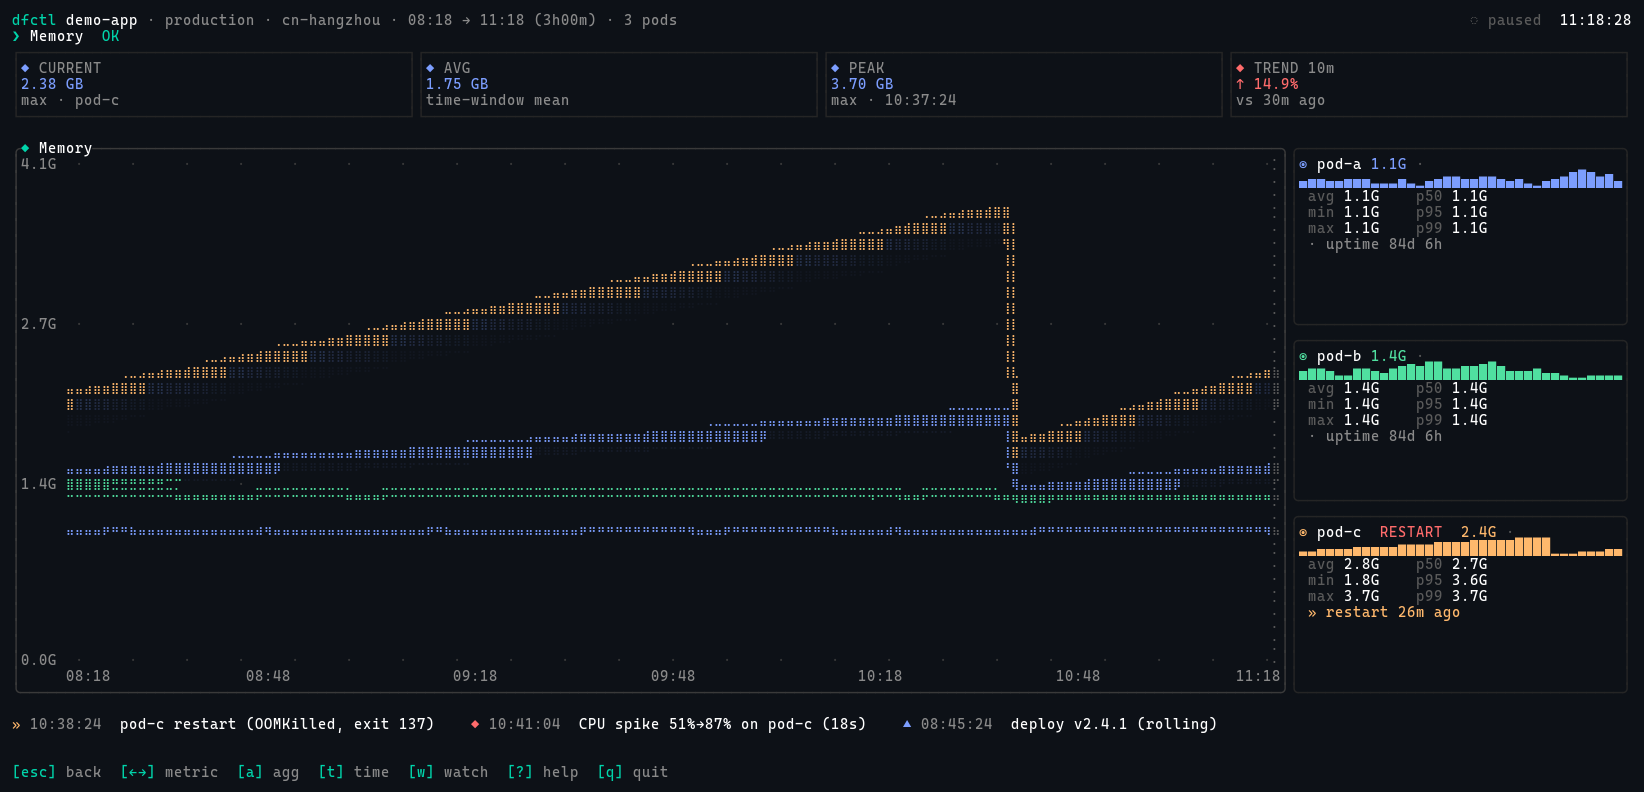
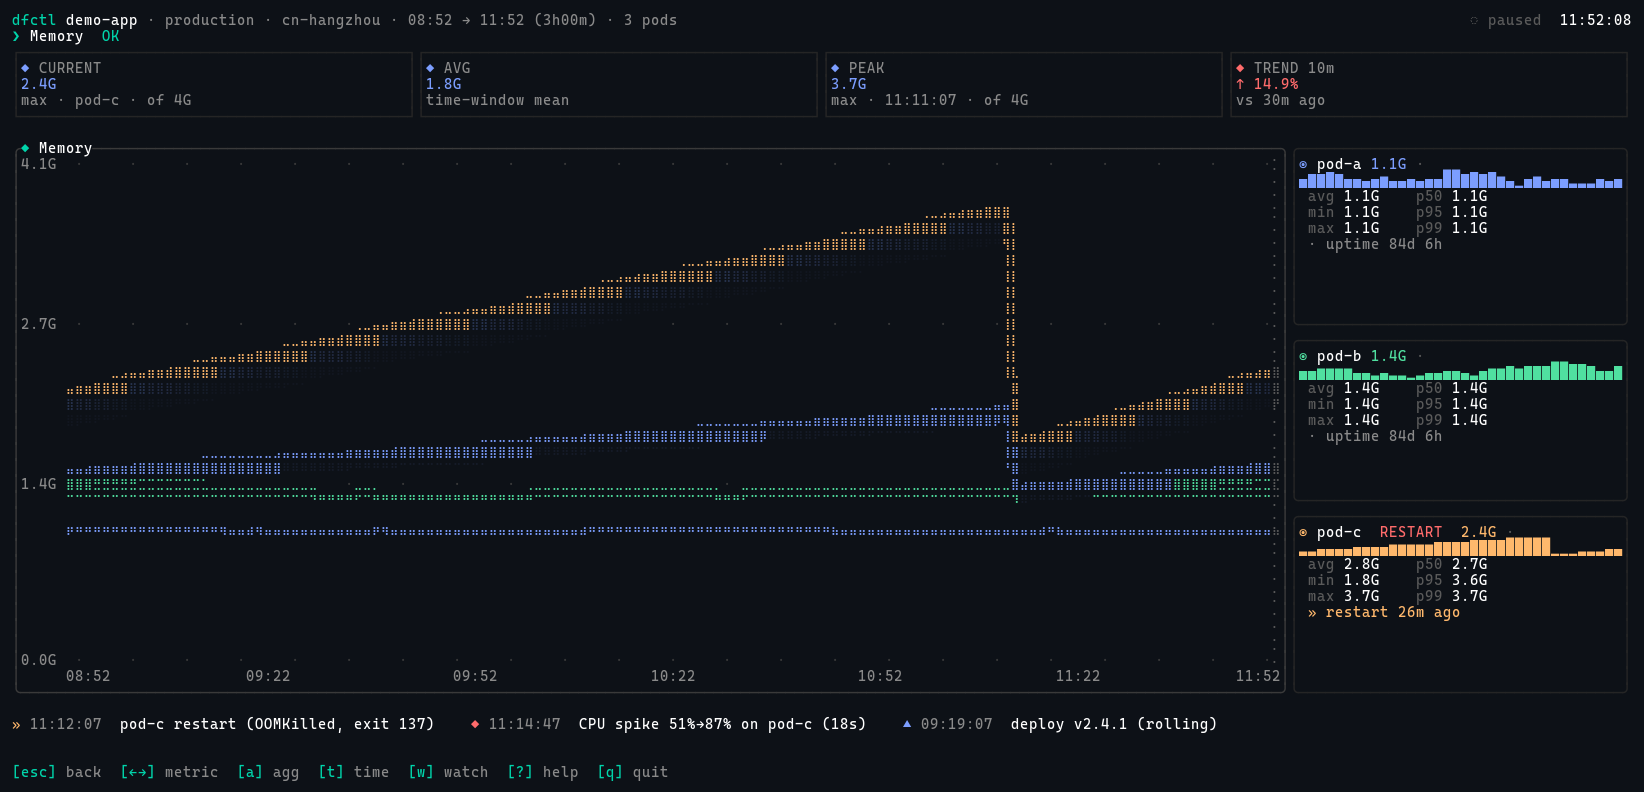
phase-11: polish — long-press arrows, narrow Memory subtitle, KPI limit
Four small UX polish items from Codex round 4:

 - Long-press arrow keys now page continuously. Was filtering out both
   Release and Repeat KeyEventKinds; we only need to drop Release. Repeat
   events fire while the key is held, so phone-tier panel flipping and
   detail-view metric switching follow the user's finger instead of
   stopping at the first press.

 - Memory subtitle is now width-aware. Verbose form on roomy panels
   (`pod-a 1.1/2G (55%)`) but compact on narrow ones (`a 55%·2G`) so a
   long pod-name no longer clips. Threshold is ~22 chars per pod.

 - GB → G short-form in the KPI card too (`{:.1}G`), matching pod cards
   / Replicas table / subtitle. Comment notes these numbers are GiB
   internally (1024³).

 - Memory detail KPIs (CURRENT/PEAK) now show `of XG` headroom hint,
   pulled from the hottest pod's `mem_limit_bytes`. The user sees
   `2.4G · max · pod-c · of 4G` on CURRENT and `3.7G · max · 11:11:07 ·
   of 4G` on PEAK — OOM proximity visible without doing math.

diff --git a/src/commands/monitor/widgets/panel.rs b/src/commands/monitor/widgets/panel.rs
@@ -67,8 +67,9 @@ impl<'a> Widget for MetricPanel<'a> {
             return;
         }
 
-        // subtitle
-        let subtitle = build_subtitle(self.metric, &self.data, self.pods);
+        // subtitle (width-adaptive so long pod-name + limit text doesn't clip on
+        // narrow panels)
+        let subtitle = build_subtitle(self.metric, &self.data, self.pods, inner.width);
         if !subtitle.is_empty() && inner.height >= 4 {
             Paragraph::new(Line::from(Span::styled(
                 subtitle,
@@ -232,7 +233,7 @@ fn build_preview(metric: MetricKind, data: &MetricData, pods: &[PodInfo]) -> Str
     }
 }
 
-fn build_subtitle(metric: MetricKind, data: &MetricData, pods: &[PodInfo]) -> String {
+fn build_subtitle(metric: MetricKind, data: &MetricData, pods: &[PodInfo], width: u16) -> String {
     match metric {
         MetricKind::Cpu => {
             let max_now = data.series.iter().find(|s| s.label == "max").map(|s| s.current()).unwrap_or(0.0);
@@ -247,8 +248,11 @@ fn build_subtitle(metric: MetricKind, data: &MetricData, pods: &[PodInfo]) -> St
             format!("{}{}", lines.join("  "), warn)
         }
         MetricKind::Memory => {
-            // Show per-pod "used/limit (pct)" so the user sees headroom at a
-            // glance, not bare GB numbers that ignore the pod's spec.
+            // Two formats: verbose ("pod-a 1.1/2G (55%)") when there's room,
+            // compact ("a 55%·2G") for narrow panels. Threshold is a heuristic
+            // — each verbose entry is ~20 chars including separator.
+            let verbose_width: u16 = pods.len() as u16 * 22;
+            let compact = width > 0 && width < verbose_width;
             let lines: Vec<String> = pods
                 .iter()
                 .map(|p| {
@@ -258,10 +262,17 @@ fn build_subtitle(metric: MetricKind, data: &MetricData, pods: &[PodInfo]) -> St
                         .map(|b| b as f64 / (1024.0 * 1024.0 * 1024.0))
                         .unwrap_or(2.0);
                     let pct = (used_gb / limit_gb * 100.0).min(999.0);
-                    format!("{} {:.1}/{:.0}G ({:.0}%)", p.name, used_gb, limit_gb, pct)
+                    if compact {
+                        // Drop the verbose `used/limit` form; keep pct + limit.
+                        // "a 55%·2G" → 9 chars; 3 pods + separators ≈ 30 chars.
+                        let short = p.name.split('-').last().unwrap_or(&p.name);
+                        format!("{} {:.0}%·{:.0}G", short, pct, limit_gb)
+                    } else {
+                        format!("{} {:.1}/{:.0}G ({:.0}%)", p.name, used_gb, limit_gb, pct)
+                    }
                 })
                 .collect();
-            lines.join("  ")
+            lines.join(if compact { "  " } else { "  " })
         }
         MetricKind::Latency => {
             let p50 = data.series.iter().find(|s| matches!(s.kind, SeriesKind::Percentile(50))).map(|s| s.current()).unwrap_or(0.0);

diff --git a/src/commands/monitor/render/single.rs b/src/commands/monitor/render/single.rs
@@ -7,6 +7,18 @@ use crate::commands::monitor::theme;
 use crate::commands::monitor::widgets;
 use crate::commands::monitor::widgets::pod_card::PodCardReason;
 
+/// For Memory KPIs, return a "of XG limit" annotation based on the hottest
+/// pod's memory limit. Returns None for other metrics — keeps the helper
+/// no-op outside the case the user actually flagged.
+fn memory_limit_annotation(metric: MetricKind, pods: &[PodInfo]) -> Option<String> {
+    if !matches!(metric, MetricKind::Memory) {
+        return None;
+    }
+    let hot = pods.iter().max_by(|a, b| a.mem_bytes.cmp(&b.mem_bytes))?;
+    let limit_gb = hot.mem_limit_bytes? as f64 / (1024.0 * 1024.0 * 1024.0);
+    Some(format!("of {:.0}G", limit_gb))
+}
+
 const OUTLIER_SIGMA: f64 = 1.5;
 const RESTART_GRACE_SECONDS: u64 = 3600;
 /// Below this pod count, show every pod with a full card (small-cluster mode).
@@ -181,13 +193,24 @@ pub fn draw_single(area: Rect, buf: &mut Buffer, st: &AppState, metric: MetricKi
     let (peak_val, peak_sub) = derive_peak(md);
     let (trend_val, trend_sub, trend_color) = derive_trend(md);
 
+    // Annotate Memory KPIs with `of XG limit` (the hot pod's limit) so users
+    // see headroom on the CURRENT/PEAK cards, not just in the panel subtitle.
+    let limit_annotation = memory_limit_annotation(metric, &data.pods);
+
     let curr_color = pick_card_color(metric, curr_val);
     let peak_color = pick_card_color(metric, peak_val);
     let kpi_titles = ["CURRENT", "AVG", "PEAK", "TREND 10m"];
+    let with_lim = |sub: String| -> String {
+        if let Some(ref lim) = limit_annotation {
+            format!("{} · {}", sub, lim)
+        } else {
+            sub
+        }
+    };
     let kpi_values = [
-        (kpi_format(curr_val, &md.unit), curr_color, curr_sub),
+        (kpi_format(curr_val, &md.unit), curr_color, with_lim(curr_sub)),
         (kpi_format(avg_val, &md.unit), ACCENT_INFO, avg_sub),
-        (kpi_format(peak_val, &md.unit), peak_color, peak_sub),
+        (kpi_format(peak_val, &md.unit), peak_color, with_lim(peak_sub)),
         (trend_val, trend_color, trend_sub),
     ];
     for (i, rect) in rects.kpis.iter().enumerate() {

diff --git a/src/commands/monitor/mod.rs b/src/commands/monitor/mod.rs
@@ -195,12 +195,13 @@ async fn main_loop<B: ratatui::backend::Backend>(
             _ = second_tick.tick() => {}
             evt = read_event() => {
                 if let Some(CtEvent::Key(k)) = evt {
-                    // crossterm sends Press, Release and Repeat events when the terminal
-                    // has kitty keyboard protocol enabled (Termius, WezTerm, recent
-                    // iTerm builds). Without this filter every keypress was processed
-                    // twice — once on Press, once on Release — making arrows and Enter
-                    // feel like they needed a double tap.
-                    if !matches!(k.kind, crossterm::event::KeyEventKind::Press) {
+                    // crossterm sends Press, Release and Repeat events when the host
+                    // terminal speaks kitty keyboard protocol (Termius, WezTerm, recent
+                    // iTerm). Accept Press *and* Repeat so holding an arrow key still
+                    // pages continuously; drop Release which was the source of the
+                    // "needs two taps" bug — every key was firing twice without this.
+                    use crossterm::event::KeyEventKind;
+                    if matches!(k.kind, KeyEventKind::Release) {
                         continue;
                     }
                     let tier = LayoutTier::from_size(st.terminal_size.0, st.terminal_size.1, &st.args);

diff --git a/src/commands/monitor/render/helpers.rs b/src/commands/monitor/render/helpers.rs
@@ -111,7 +111,9 @@ pub fn kpi_format(v: f64, unit: &str) -> String {
     match unit {
         "%" => format!("{:.1}%", v),
         "ms" => format!("{:.0}ms", v),
-        "GB" => format!("{:.2} GB", v),
+        // Display as GiB short-form to match Replicas table, pod cards, and
+        // subtitles. Internally these numbers are GiB (divided by 1024^3).
+        "GB" => format!("{:.1}G", v),
         "rpm" => widgets::chart::format_traffic(v),
         _ => format!("{:.1}", v),
     }
